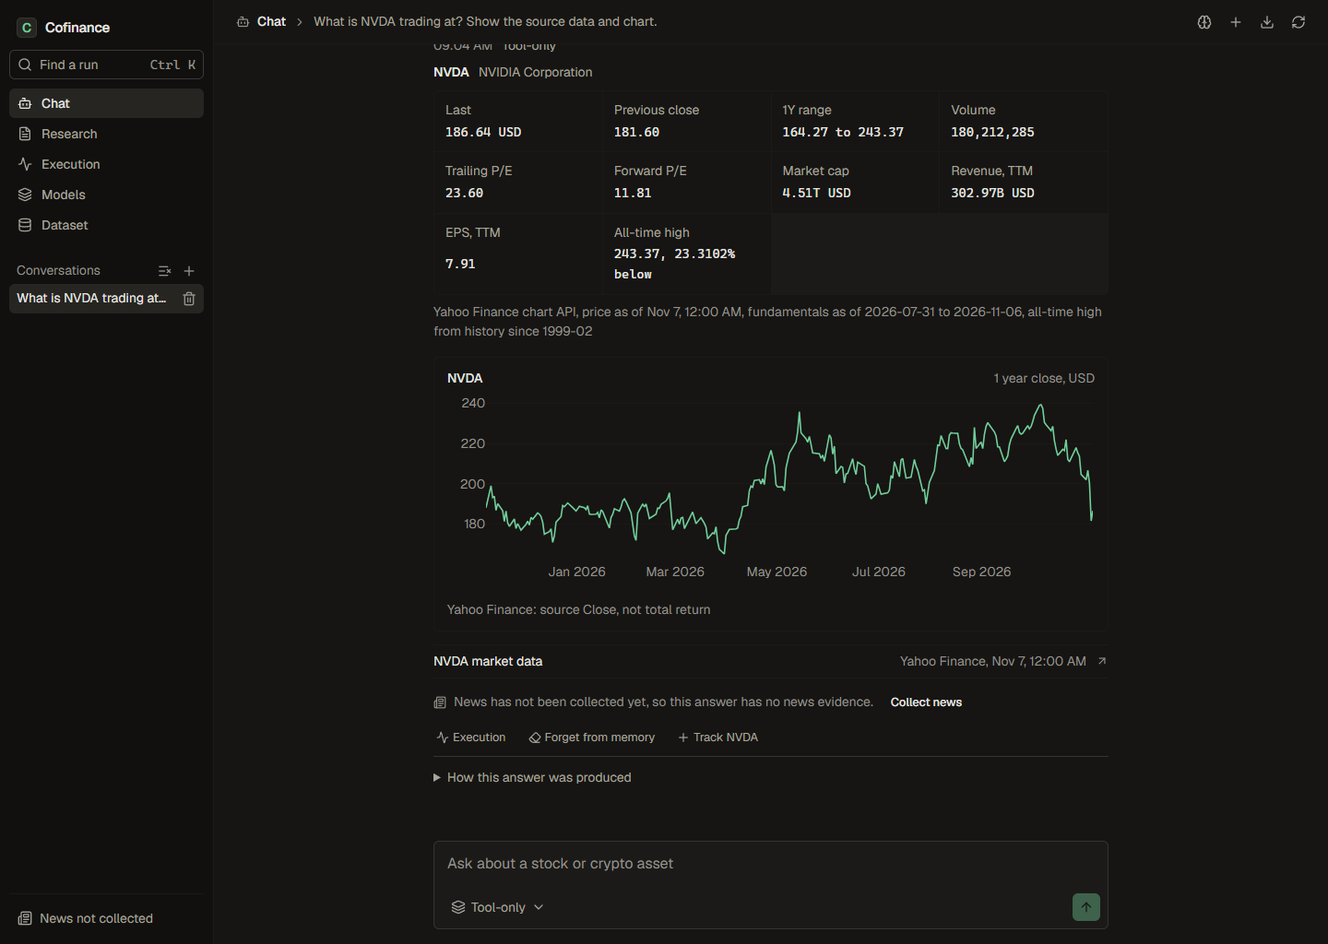
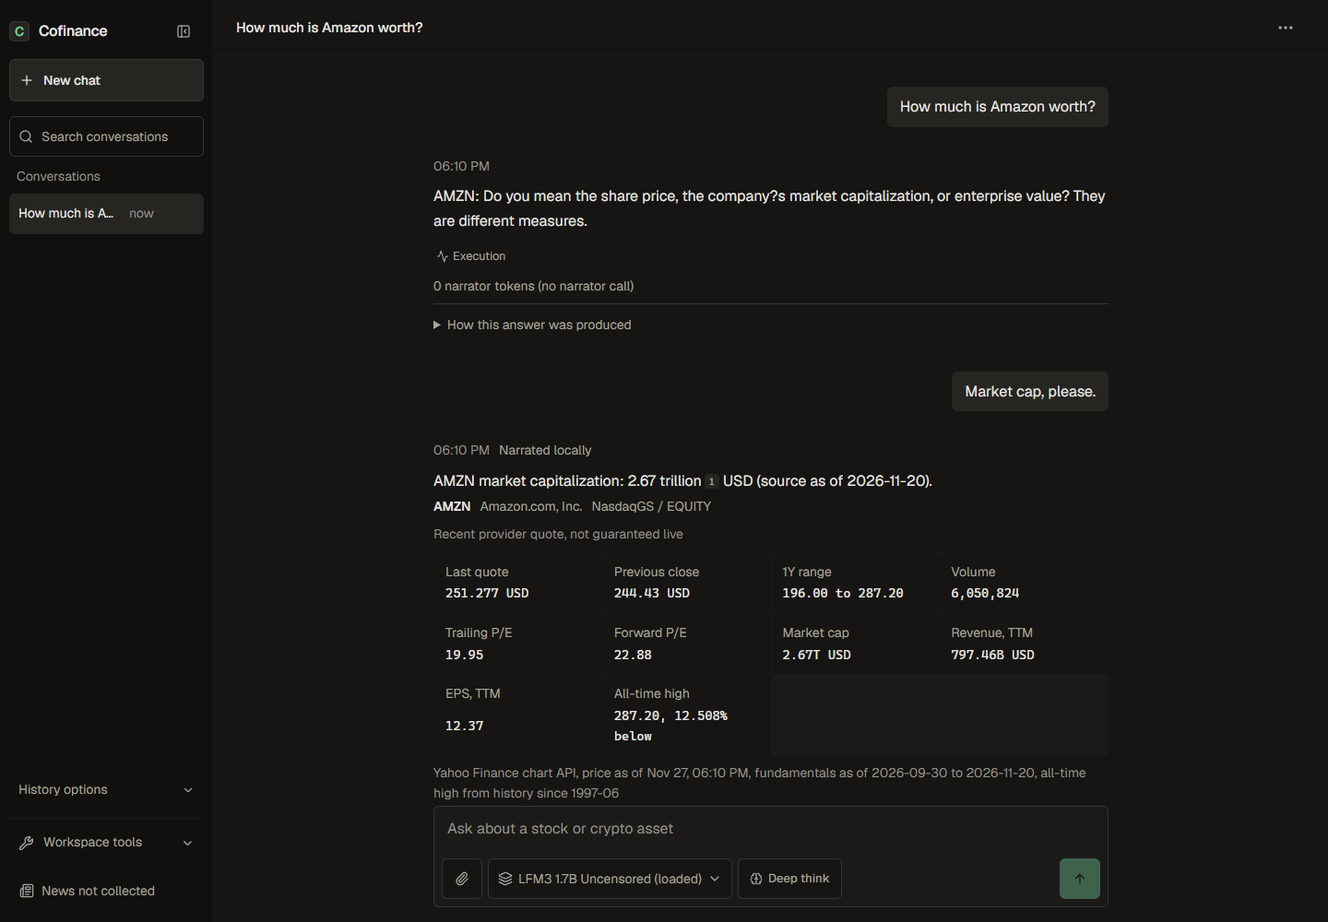
Clarify valuation requests and showcase the Cofinance workspace

diff --git a/frontend/src/components/step-explanation.tsx b/frontend/src/components/step-explanation.tsx
@@ -10,7 +10,7 @@ export function StepExplanation({span,spans}:{span:Span;spans:Span[]}){
   {classification&&<section className="step-explanation"><h3><GitBranch size={16}/>Decision-model output</h3><p>Label classification, not generated reasoning. The model scores the supplied text; Python decides what can happen next.</p><div className="head-scores">{Object.entries(output).map(([name,value])=>{const head=object(value);return typeof value==='string'||typeof head.label==='string'?<div key={name}><span>{name}</span><strong>{typeof value==='string'?value:text(head.label)}</strong><span className="mono">{typeof head.confidence==='number'?head.confidence.toFixed(4):''}</span></div>:null})}</div></section>}
   {span.kind==='model'&&span.name==='Narrate evidence'&&<section className="step-explanation"><h3><Layers size={16}/>Narration, not authority</h3><p>This is one role call to the recorded narrator model. It receives tool evidence and emits candidate text. A later guard, not the model itself, accepts or replaces that text.</p><p>Deep Think is an opt-in Market Team Lead mode. The trace records candidate output, never hidden reasoning.</p></section>}
   {span.kind==='model'&&span.name==='Answer open conversation'&&<section className="step-explanation"><h3><Layers size={16}/>Direct local chat (no live tools)</h3><p>The selected local model answered this turn directly from conversation history without calling market data, news stores, or numeric faithfulness guards.</p></section>}
-  {span.kind==='decision'&&span.name==='Asset clarification required'&&<section className="step-explanation"><h3><GitBranch size={16}/>Clarification requested</h3><p>{text(output.reason)==='empty_watchlist'?'Your watchlist is empty, so Python asked you to name or track an asset instead of guessing.':text(output.reason)==='ambiguous_symbol'?'Multiple assets matched this name, so Python listed the Yahoo Finance candidates and asked which ticker or market you want instead of guessing.':text(output.reason)==='unresolved_symbol'?'The named asset could not be matched. Python asked for a ticker or exchange instead of reusing the last asset.':'Tool-only mode requires an asset or attached PDF before running research tools. No model was called.'}</p></section>}
+  {span.kind==='decision'&&span.name==='Asset clarification required'&&<section className="step-explanation"><h3><GitBranch size={16}/>Clarification requested</h3><p>{text(output.reason)==='empty_watchlist'?'Your watchlist is empty, so Python asked you to name or track an asset instead of guessing.':text(output.reason)==='ambiguous_symbol'?'Multiple assets matched this name, so Python listed the Yahoo Finance candidates and asked which ticker or market you want instead of guessing.':text(output.reason)==='unresolved_symbol'?'The named asset could not be matched. Python asked for a ticker or exchange instead of reusing the last asset.':text(output.reason)==='ambiguous_valuation'?'Share price and company valuation are different measures. The app asked which one you meant instead of quoting a number.':text(output.reason)==='unsupported_valuation'?'The configured evidence does not provide the requested measure. No different measure was substituted.':'Tool-only mode requires an asset or attached PDF before running research tools. No model was called.'}</p></section>}
   {span.kind==='decision'&&span.name==='Reuse conversation assets'&&<section className="step-explanation"><h3><GitBranch size={16}/>Conversation follow-up</h3><p>The question named no new ticker, so Python reused the active assets from this conversation only.</p></section>}
   {span.kind==='decision'&&span.name==='Run cancelled'&&<section className="step-explanation"><h3><ShieldCheck size={16}/>Stopped by user</h3><p>Execution stopped before an answer was accepted. Partial observations stay inspectable, and nothing was saved to conversation memory.</p></section>}
   {span.kind==='decision'&&span.name==='Run failed'&&<section className="step-explanation"><h3><ShieldCheck size={16}/>Bounded failure</h3><p>Execution ended early with {text(output.error_type)||'an error'}. No unverified answer was accepted or saved.</p></section>}

diff --git a/frontend/src/lib/run-map.ts b/frontend/src/lib/run-map.ts
@@ -84,7 +84,10 @@ export function interactiveStages(run:Run):MapStage[]{
   const clarifySpans=spans.filter(s=>s.name==='Asset clarification required')
   const reason=text(object(clarifySpans[0]?.outputs).reason)
   const lookupClarification=reason==='ambiguous_symbol'||reason==='unresolved_symbol'
-  const dispatchStage=stage('dispatch','Dispatch policy','Python coordinator','The request needs a confirmed asset before specialists can research it.',clarifySpans,run,lookupClarification?'Symbol lookup needs clarification':'Asset clarification required')
+  const measureClarification=reason==='ambiguous_valuation'||reason==='unsupported_valuation'
+  const detail=reason==='unsupported_valuation'?'Requested measure is unavailable':measureClarification?'Requested measure needs clarification':lookupClarification?'Symbol lookup needs clarification':'Asset clarification required'
+  const hint=measureClarification?'A share price cannot stand in for a different valuation measure.':'The request needs a confirmed asset before specialists can research it.'
+  const dispatchStage=stage('dispatch','Dispatch policy','Python coordinator',hint,clarifySpans,run,detail)
   const resultStage=stage('result','Accepted result','Local conversation','Saved the clarification without narrating a research answer.',clarifySpans,run,answerAccepted?'Clarification recorded (no narrator call)':'No accepted final answer recorded')
   if(answerAccepted&&resultStage.state==='not_observed')resultStage.state='complete'
   if(!answerAccepted)resultStage.state=run.status==='running'?'running':'not_reached'

diff --git a/core/chat_service.py b/core/chat_service.py
@@ -22,11 +22,11 @@ from .gliner_decide import DEFAULT_ALIASES, GlinerQueryRouter, GlinerOutputError
 from .local_models import LocalModels, MODEL_ID, ModelError, Cancelled, narrators
 from .market import MarketTools, has_listing_constraint
 from .news_service import coverage_note, feed_tickers, news_health
-from .evidence_status import decision_assessment, decision_request, previous_close_answer, previous_close_request
+from .evidence_status import decision_assessment, decision_request, previous_close_answer, previous_close_request, requested_valuation, valuation_answer
 from .memory import HybridMemory, LocalKeywordMemory, MemoryHit, context_from
 # Aliased: chat_store.ACTIVE (job statuses) is a different thing; shadowing it broke Stop once (caught by tests).
 from .memory_items import ACTIVE as ITEM_ACTIVE, FORGOTTEN as ITEM_FORGOTTEN, NOTE_LIMIT, PENDING as ITEM_PENDING, MemoryLedger
-from .orchestrator import DataAnalystAgent, NewsResearcherAgent, TeamLeadOrchestrator, market_fact_lines, plain_text
+from .orchestrator import DataAnalystAgent, NewsResearcherAgent, TeamLeadOrchestrator, market_fact_lines, plain_text, display_value
 from .signals import Item, Outcome, Judgment, Action
 from .run_trace import TraceRecorder, run_traced_team
 
@@ -374,7 +374,9 @@ class ChatService:
             check()
             if routed.intent not in {'price_snapshot','news_catalysts','compare_assets','watchlist_add','thesis_review','open_conversation'}:
                 raise GlinerOutputError('Unsupported router intent.')
-            if routed.intent=='open_conversation' and session_tickers and previous_close_request(job['query']):
+            measure=requested_valuation(job['query'],getattr(routed,'requested_value','other'))
+            concise_metric=re.fullmatch(r'\s*(?:market\s+cap(?:italization|italisation)?|share\s+price|enterprise\s+value)[,.?!\s]*(?:please[.!\s]*)?',job['query'],re.I)
+            if routed.intent=='open_conversation' and session_tickers and (previous_close_request(job['query']) or concise_metric):
                 routed=dataclasses.replace(routed,intent='price_snapshot')
             tools=self.market_factory(cancel=cancel)
             resolved_tickers=list(dict.fromkeys(routed.tickers))
@@ -431,6 +433,22 @@ class ChatService:
                     check()
                     self.store.finish(job['id'],answer,{'kind':'clarification','charts':[],'evidence':[],'tickers':session_tickers,'mode':job['model'],'usage':trace.data.get('usage')},session_tickers,'complete')
                 return
+            if not doc_match and routed.intent in {'price_snapshot','compare_assets'} and not decision_request(job['query']) and measure in {'ambiguous_value','enterprise_value'}:
+                prior=list(dict.fromkeys(resolved_tickers or session_tickers))
+                if prior:
+                    prefix=', '.join(prior)+': '
+                    if measure=='ambiguous_value':
+                        answer=prefix+'Do you mean the share price, the company?s market capitalization, or enterprise value? They are different measures.'
+                        reason='ambiguous_valuation'
+                    else:
+                        answer=prefix+'Enterprise value is not available from the configured evidence. The share price and market capitalization are different measures, not substitutes.'
+                        reason='unsupported_valuation'
+                    trace.event('Asset clarification required','decision',{'reason':reason,'tickers':prior,'measure':measure},actor='Python')
+                    trace.finish(summary={'origin':'chat','conversation_id':job['session_id'],'flow':'clarification','answer_kind':'clarification','answer':answer,'model_choice':job['model']})
+                    with self.lock:
+                        check()
+                        self.store.finish(job['id'],answer,{'kind':'clarification','charts':[],'evidence':[],'tickers':prior,'mode':job['model'],'usage':trace.data.get('usage')},prior,'complete')
+                    return
             if routed.intent=='open_conversation':
                 tickers=[]
             else:
@@ -613,6 +631,11 @@ class ChatService:
                 payload['market_answer_note']=answer
                 payload['citations']=cite(answer[:16000],tools.snapshots,tools.evidence+news.evidence)
                 trace.event('Use dated previous close','decision',{'tickers':tickers},actor='Python')
+            elif tickers and not doc_match and not asked_for_decision and routed.intent in {'price_snapshot','compare_assets'} and measure in {'share_price','market_cap'}:
+                answer=valuation_answer(measure,tickers,tools.snapshots,display_value)
+                payload['market_answer_note']=answer
+                payload['citations']=cite(answer[:16000],tools.snapshots,tools.evidence+news.evidence)
+                trace.event('Use requested market measure','decision',{'measure':measure,'tickers':tickers},actor='Python')
             if routed.intent=='compare_assets':
                 unavailable=[t for t in tickers if tools.snapshots.get(t,{}).get('status')=='unavailable'
                              or tools.snapshots.get(t,{}).get('price') is None]

diff --git a/tests/test_research_acceptance.py b/tests/test_research_acceptance.py
@@ -36,8 +36,10 @@ THY = [listing('THY', 'Toews Agility Shares', 'ETF', 'PCX', 10_009_500),
 class ModelFixture:
     def classify_text(self, text, schema, **kwargs):
         intent = 'compare_assets' if text.startswith('Compare') else 'open_conversation' if 'previous close' in text else 'price_snapshot'
+        measure = 'ambiguous_value' if text == 'How much is Amazon worth?' else 'other'
         return {'intent': {'label': intent, 'confidence': .9},
-                'horizon': {'label': 'intraday', 'confidence': .9}}
+                'horizon': {'label': 'intraday', 'confidence': .9},
+                'requested_value': {'label': measure, 'confidence': .9}}
 
     def extract_entities(self, text, entity_types):
         return {'entities': {'company': [name for name in ('VEL', 'Kando', 'THY', 'Hoku', 'Beck') if name in text]}}
@@ -72,13 +74,16 @@ class TestResearchAcceptance(unittest.TestCase):
                 data.update(ticker=ticker, name='Turkish Airlines' if ticker == 'THYAO.IS' else ticker,
                             currency=currency, status='available', previous_session_close=130.0,
                             previous_session_date='2026-11-26')
+                if ticker == 'AMZN':
+                    data.update(quote_type='EQUITY', market_cap=1_250_000_000_000,
+                                fundamentals_as_of={'market_cap': {'as_of': '2026-11-26'}})
                 self.charts[ticker]['currency'] = currency
                 return data
 
         models = RecordingNarratorModels()
         models.state['selected'] = 'facts'
         self.svc = ChatService(REPO, self.root, models=models, market_factory=Market,
-                               router_factory=lambda: GlinerQueryRouter(ModelFixture(), {'NVDA', 'AMD', 'MSFT'}))
+                               router_factory=lambda: GlinerQueryRouter(ModelFixture(), {'NVDA', 'AMD', 'MSFT', 'AMZN'}))
         self.addCleanup(self.svc.close)
         self.sid = self.svc.store.create_session(uuid.uuid4().hex)['id']
 
@@ -220,6 +225,32 @@ class TestResearchAcceptance(unittest.TestCase):
         self.assertTrue(any(s['name'] == 'Decision evidence assessment' for s in trace['spans']))
         self.assertEqual(msg['payload']['charts'][0]['currency'], 'TRY')
         self.assertTrue(any(s['name'] == 'Resolve asset symbol' for s in trace['spans']))
+
+    def test_bare_valuation_asks_then_binds_the_followup_measure(self):
+        unclear, trace, session = self.ask('How much is Amazon worth?')
+        self.assertEqual(unclear['payload']['kind'], 'clarification')
+        self.assertIn('share price', unclear['content'])
+        self.assertIn('market capitalization', unclear['content'])
+        self.assertEqual(unclear['payload']['charts'], [])
+        self.assertEqual(session['tickers'], ['AMZN'])
+        self.assertEqual(self.quotes_read, [])
+        self.assertEqual(trace['summary']['flow'], 'clarification')
+        priced, _, _ = self.ask('Market cap, please.')
+        self.assertEqual(priced['content'], 'AMZN market capitalization: 1.25 trillion USD (source as of 2026-11-26).')
+        self.assertEqual(priced['payload']['market_answer_note'], priced['content'])
+        self.assertEqual(self.quotes_read, ['AMZN'])
+
+    def test_explicit_share_price_checks_the_share_price_field(self):
+        msg, _, _ = self.ask('What is Amazon worth per share?')
+        self.assertIn('AMZN last quote per share: 138.5 USD', msg['content'])
+        self.assertNotIn('trillion', msg['content'])
+
+    def test_enterprise_value_is_not_replaced_with_market_cap(self):
+        msg, meta, _ = self.ask('What is Amazon enterprise value?')
+        self.assertIn('Enterprise value is not available', msg['content'])
+        self.assertEqual(self.quotes_read, [])
+        self.assertEqual(meta['summary']['flow'], 'clarification')
+        self.assertFalse(msg['payload']['charts'])
 
     def test_explicit_market_and_type_constraints_do_not_fall_back(self):
         cases = [('VEL', 'VEL, Turkish stock', [VEL]),

diff --git a/tests/test_provider_workflow.py b/tests/test_provider_workflow.py
@@ -38,6 +38,15 @@ JOURNEYS = (
 )
 
 
+VALUATION_REGRESSIONS = (
+    ('valuation', (
+        ('How much is Amazon worth?', 'clarification', {}, False),
+        ('Market cap, please.', 'research', {'AMZN': 'USD'}, False),
+        ('What is Amazon enterprise value?', 'clarification', {}, False),
+    )),
+)
+
+
 def stage_models(target):
     source = REPO / 'data' / 'local_models'
     target.mkdir()
@@ -58,6 +67,7 @@ class TestProviderWorkflow(unittest.TestCase):
 
         digest = hashlib.sha256(json.dumps(JOURNEYS, sort_keys=True).encode()).hexdigest()
         print(f'Provider journey protocol SHA-256: {digest}', flush=True)
+        print('Valuation regression SHA-256: '+hashlib.sha256(json.dumps(VALUATION_REGRESSIONS, sort_keys=True).encode()).hexdigest(), flush=True)
         events = []
 
         def yahoo(url):
@@ -98,7 +108,7 @@ class TestProviderWorkflow(unittest.TestCase):
                 with sync_playwright() as pw:
                     browser = pw.chromium.launch(executable_path='C:/Program Files/Google/Chrome/Application/chrome.exe', headless=True)
                     try:
-                        for name, turns in JOURNEYS:
+                        for name, turns in JOURNEYS + VALUATION_REGRESSIONS:
                             with browser.new_context(viewport={'width': 1440, 'height': 900}) as context:
                                 page = context.new_page()
                                 page.set_default_timeout(90000)
@@ -138,6 +148,16 @@ class TestProviderWorkflow(unittest.TestCase):
                                             self.assertRegex(payload.get('market_answer_note', ''), r'VOD\.L previous-session close: .+ GBp on \d{4}-\d{2}-\d{2}')
                                             self.assertIn(payload['market_answer_note'], answer['content'])
                                             self.assertFalse(any('/finance/search' in e['path'] for e in provider))
+                                        if name == 'valuation':
+                                            if index == 0:
+                                                self.assertIn('Do you mean the share price', answer['content'])
+                                            elif index == 1:
+                                                self.assertTrue(answer['content'].startswith('AMZN market capitalization:'))
+                                                self.assertGreater(payload['snapshots']['AMZN']['market_cap'], 0)
+                                            else:
+                                                self.assertIn('Enterprise value is not available', answer['content'])
+                                            if index != 1:
+                                                self.assertEqual(provider, [])
                                         if expected:
                                             self.assertTrue(any('/chart/' in e['path'] and 'response' in e for e in provider))
                                         if kind != 'research':

diff --git a/core/evidence_status.py b/core/evidence_status.py
@@ -82,6 +82,41 @@ def previous_close_answer(tickers, snapshots) -> str:
     return ' '.join(lines)
 
 
+_VALUATION_FIELDS = (
+    ('enterprise_value', re.compile(r'\benterprise\s+value\b', re.I)),
+    ('market_cap', re.compile(r'\bmarket\s+cap(?:italization|italisation)?\b', re.I)),
+    ('share_price', re.compile(r'\b(?:share\s+price|(?:price|worth)\s+per\s+share)\b', re.I)),
+)
+
+
+def requested_valuation(query: str, proposed: str) -> str:
+    explicit = [label for label, pattern in _VALUATION_FIELDS if pattern.search(query)]
+    if len(explicit) > 1:
+        return 'other'
+    return explicit[0] if explicit else proposed
+
+
+def valuation_answer(metric, tickers, snapshots, display_value) -> str:
+    field = 'price' if metric == 'share_price' else 'market_cap'
+    lines = []
+    for ticker in tickers:
+        snap = snapshots.get(ticker, {})
+        if field == 'market_cap':
+            label = 'market capitalization'
+        else:
+            label = 'last quote per share' if snap.get('quote_type') in {'EQUITY', 'ETF'} else 'last quoted price'
+        amount, unit = snap.get(field), snap.get('currency')
+        if snap.get('error') or type(amount) not in (int, float) or not math.isfinite(amount) or amount <= 0:
+            lines.append(f'{ticker}: the source did not provide {label}.')
+            continue
+        time = (snap.get('quote_status') or {}).get('as_of') if field == 'price' else (
+            (snap.get('fundamentals_as_of') or {}).get(field) or {}).get('as_of')
+        qualifier = f' (source as of {time})' if time else ' (source time not supplied)'
+        shown = display_value(field, amount)[0]
+        lines.append(f'{ticker} {label}: {shown} {unit or "(currency not supplied)"}{qualifier}.')
+    return ' '.join(lines)
+
+
 def claims_current_price(clause: str) -> bool:
     return bool(_CURRENT_PRICE.search(_NEGATED_REALTIME.sub('', clause)))
 

diff --git a/core/gliner_decide.py b/core/gliner_decide.py
@@ -79,6 +79,13 @@ USER_QUERY_SCHEMA: Dict[str, Any] = {
         },
     },
     "horizon": ["intraday", "swing_week", "long_term"],
+    "requested_value": {"labels": {
+        "other": "Not asking for a monetary value of a security or its issuer: general concept, investment decision, performance, or unrelated metric",
+        "share_price": "Explicit trading quote or market price of one share or unit of a listed security",
+        "market_cap": "Explicit market capitalization or combined equity market value of all outstanding shares",
+        "enterprise_value": "Explicit enterprise value inclusive of debt and net of cash",
+        "ambiguous_value": "Asks what a particular company or asset is worth without specifying share price, market capitalization, enterprise value, or a valuation method",
+    }},
 }
 
 
@@ -113,6 +120,7 @@ class RoutedQuery:
     horizon: str
     tickers: List[str]
     entity_candidates: Tuple[str, ...] = ()
+    requested_value: str = "other"
 
 
 class GlinerDecideClassifier(Classifier):
@@ -274,6 +282,9 @@ class GlinerQueryRouter:
 
         intent, intent_conf = _unpack_label_conf(cls_res.get("intent"), "price_snapshot")
         horizon, _ = _unpack_label_conf(cls_res.get("horizon"), "swing_week")
+        requested, value_conf = _unpack_label_conf(cls_res.get("requested_value"), "other")
+        if requested not in _schema_labels(USER_QUERY_SCHEMA["requested_value"]) or value_conf < 0.50:
+            requested = "other"
 
         tickers = extract_known_tickers(query, self.universe, self.aliases)
         seen = set(tickers)
@@ -337,6 +348,7 @@ class GlinerQueryRouter:
             horizon=horizon,
             tickers=tickers,
             entity_candidates=tuple(candidates),
+            requested_value=requested,
         )
 
 

diff --git a/README.md b/README.md
@@ -1,6 +1,18 @@
 # Cofinance
 
-Cofinance is an experimental, local research and decision-support system. Finance is its first domain: ask about an asset, inspect the evidence behind the answer, and see where the system had to fall back. The person makes the decision. Cofinance never trades.
+**Ask about a stock or crypto asset. Then see what the answer is based on.** Cofinance is an experimental finance research app that runs its models on your PC. It shows dated market quotes, source-linked facts, and the steps that led to the answer. You make the decision. Cofinance never trades.
+
+## See it in action
+
+**Chat: ask, clarify, compare.** Cofinance asks which measure you mean instead of treating share price and company valuation as the same thing. The answer pairs the requested figure with a facts card showing the listing, currency, and quote status.
+
+![Cofinance Chat showing an Amazon valuation clarification and a source-dated market capitalization answer](docs/screenshots/chat.png)
+
+**Execution: see what actually ran.** Open the run map from an answer to inspect which tools and local models ran, what they received, and whether an answer passed the checks or used a fallback.
+
+![Cofinance Execution run map and step inspector for the example research turn](docs/screenshots/execution.png)
+
+Screenshots are from the local app using a disposable example conversation and public market data. Prices and valuations are point-in-time examples, not live quotes or investment advice.
 
 **The research question:** with the same small model and the same evidence, does a structured investigation produce a better conclusion than a good direct answer? We have measured speed, numerical grounding, and several finance-specific tasks. We have **not** established that the overall workflow beats direct Q&A. Medical, academic and everyday research are possible applications of the idea, not supported or validated deployments.
 
@@ -14,7 +26,7 @@ This is not a verified clean-machine fresh-install recipe (see [docs/OPERATIONS.
 
 ## How it works
 
-1. **Gather evidence.** Python fetches independent market, sentiment, and read-only crowd-odds data concurrently and stores accepted news. GLiNER routes questions and classifies headlines (using a SHA-256 verified, parity-gated ONNX FP32 encoder cache with automatic PyTorch fallback, plus fail-closed batched Clock 1 judging). Users can attach text PDFs and inspect source-grouped page citations. Conversation memory provides context, not evidence.
+1. **Gather evidence.** Python fetches independent market, sentiment, and read-only crowd-odds data concurrently and stores accepted news. The pinned local GLiNER router classifies questions and headlines. It prefers the verified standalone ONNX FP32 runtime and uses the compatible cached fallback when needed. Users can attach text PDFs and inspect source-grouped page citations. Conversation memory provides context, not evidence.
 2. **Build reports.** The Data Analyst explains tool outputs using the local narrator. The News Researcher is deliberately Python: it quotes and groups headlines rather than asking a model to paraphrase them. A news-only question can be answered without a narrator call.
 3. **Check the answer.** On synthesis routes, the Team Lead combines reports. Number, wording, claim-provenance (asset, metric, and unit binding), and risk checks can reject a draft, permit a bounded retry or return a deterministic fallback. The trace distinguishes steps that ran from steps that were skipped. A retry is not an independent debate; matching a number or field is still not proof of external truth.
 
@@ -41,7 +53,8 @@ The [scorecard](docs/SCORECARD.md) indexes the experiments, including unsuccessf
 `core/` holds the active v2 research pipeline; `ui/` and `frontend/` serve the local dashboard. `qualify/` contains gates and experiments. `tests/` contains v2 regression and integrity checks. The archived Streamlit v1 app and its legacy tests live under [`v1/`](v1/README.md).
 
 ```text
-python -m unittest discover -s tests -t .
+python dev.py verify
+python dev.py verify --full
 python dev.py preflight
 python -B -m qualify.parity_oracle self-check
 cd frontend
